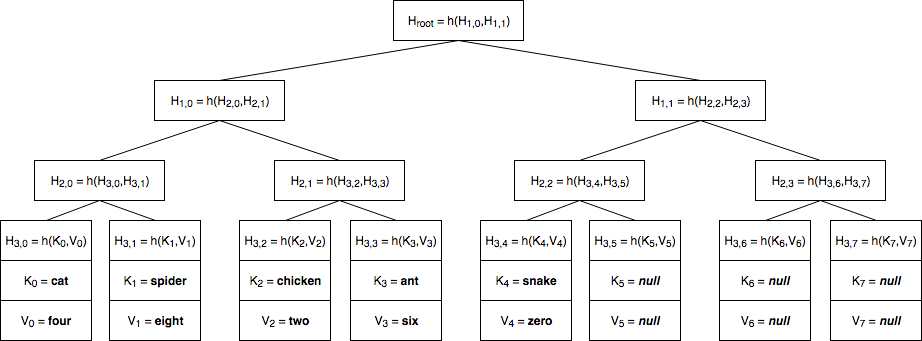
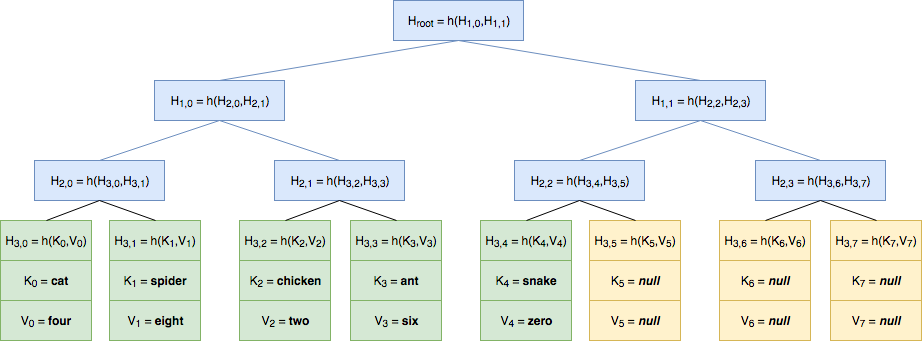
Update README.md
Adds documentation for naive approach to key/value stores on
Merkle trees.

diff --git a/README.md b/README.md
@@ -483,10 +483,43 @@ Here we will see how a `collection` makes use of Merkle trees to store its assoc
 
 #### Naive approach
 
-We start by noting that a *key / value* store can be seen as a set of couples `(key, value)` with the property that if `(key1, value1)` and `(key2, value2)` are in the set, then `key1 != key2`.
+We start by noting that a well-formed *key / value* store can be seen as a set of couples `(key, value)` with the property that if `(key1, value1)` and `(key2, value2)` are in the set, then `key1 != key2`.
 
 `collection`s organize these associations on the leaves of a Merkle tree. Here we describe a naive approach to do this and discuss its limitations; in the next section we will see how they can be overcome.
 
 Consider the case where we want to store on a Merkle Tree the following associations: `cat -> four`, `spider -> eight`, `chicken -> two`, `ant -> six` and `snake -> zero`.
 
+We could organize those associations in a Merkle tree as follows:
+
 ![naivetree](assets/images/naivetree.png "Naive Merkle tree approach")
+
+where `h` is any cryptographically secure hash function like `sha256` (which we described in [Hashing tuples](#hashing-tuples)). Here we have three types of nodes:
+
+ * **Internal nodes** (blue) only have one *label* field `H[i][j]`, `i` being the depth of the node (i.e., number of steps from the root) and `j` being a number between `0` and `2^i - 1`. For internal nodes we have `H[i][j] = h(H[i + 1][2 * j], H[i + 1][2 * j + 1])`.
+ * **Leaves** (green) have three fields: a *label* `H[i][j]`, a *key* `K[j]` and a *value* `V[j]`. All leaves have the same depth. For leaves we have `H[i][j] = h(K[j], V[j])`. 
+ * **Placeholder leaves** (yellow) are special leaves, whose *key* and *value* fields are `null` (in the code, they will be represented by a zero-length slice of bytes).
+
+##### Usage example
+
+Now, consider a scenario where Alice has a copy of the *key / value* store, and Bob only has a copy of `Hroot`. Bob knows that `Hroot` is the label of the root of a well-formed *key/value* store (as we defined earlier, this means that no key is repeated twice). Now, Bob wants to know what is the value associated to `ant`. He queries Alice which, as in a classical Merkle tree paradigm, replies with the following array: 
+
+```
+[
+   (H[1][0], H[1][1]), 
+   (H[2][0], H[2][1]), 
+   (H[3][2], H[3][3]), 
+   (K[3], V[3])
+]
+```
+
+Now Bob can verify that `h(H[1][0], H[1][1]) == Hroot`: since `h` is cryptographically secure this means that both `H[1][0]` and `H[1][1]` are correct. He then proceeds to check `h(H[2][0], H[2][1]) == H[1][0]`, `h(H[3][2], H[3][3]) == H[2][1]` and `h(K[3], V[3]) == H[3][3]`, inductively verifying that `K[3]` and `V[3]` are indeed correct. Now he can check `K[3] == ant` and finally  discover that the well-formed *key / value* store with root label `Hroot` contains the association `ant -> six`.
+
+##### Denying associations
+
+As we have seen in the previous example, it can be easily proven that a malicious Alice will never be able to prove a **false** association from the root label of a well-formed *key / value* store.
+
+However, she can't (efficiently) *deny* the existence of one. Let us imagine that, instead of issuing a query for `ant`, Bob asked Alice about `goat`. What could Alice send to Bob in order to prove that there is no association with key `goat` in the *key / value* store?
+
+Indeed, it is easy to see that the only way to prevent a malicious Alice from hiding the existence of an association is to force her to send to Bob **all** the associations in the *key / value* store!
+
+This is due to the fact that we did not introduce any structure in *how* elements are placed within the tree. Indeed, the associations in the tree above were placed in arbitrary order. 
